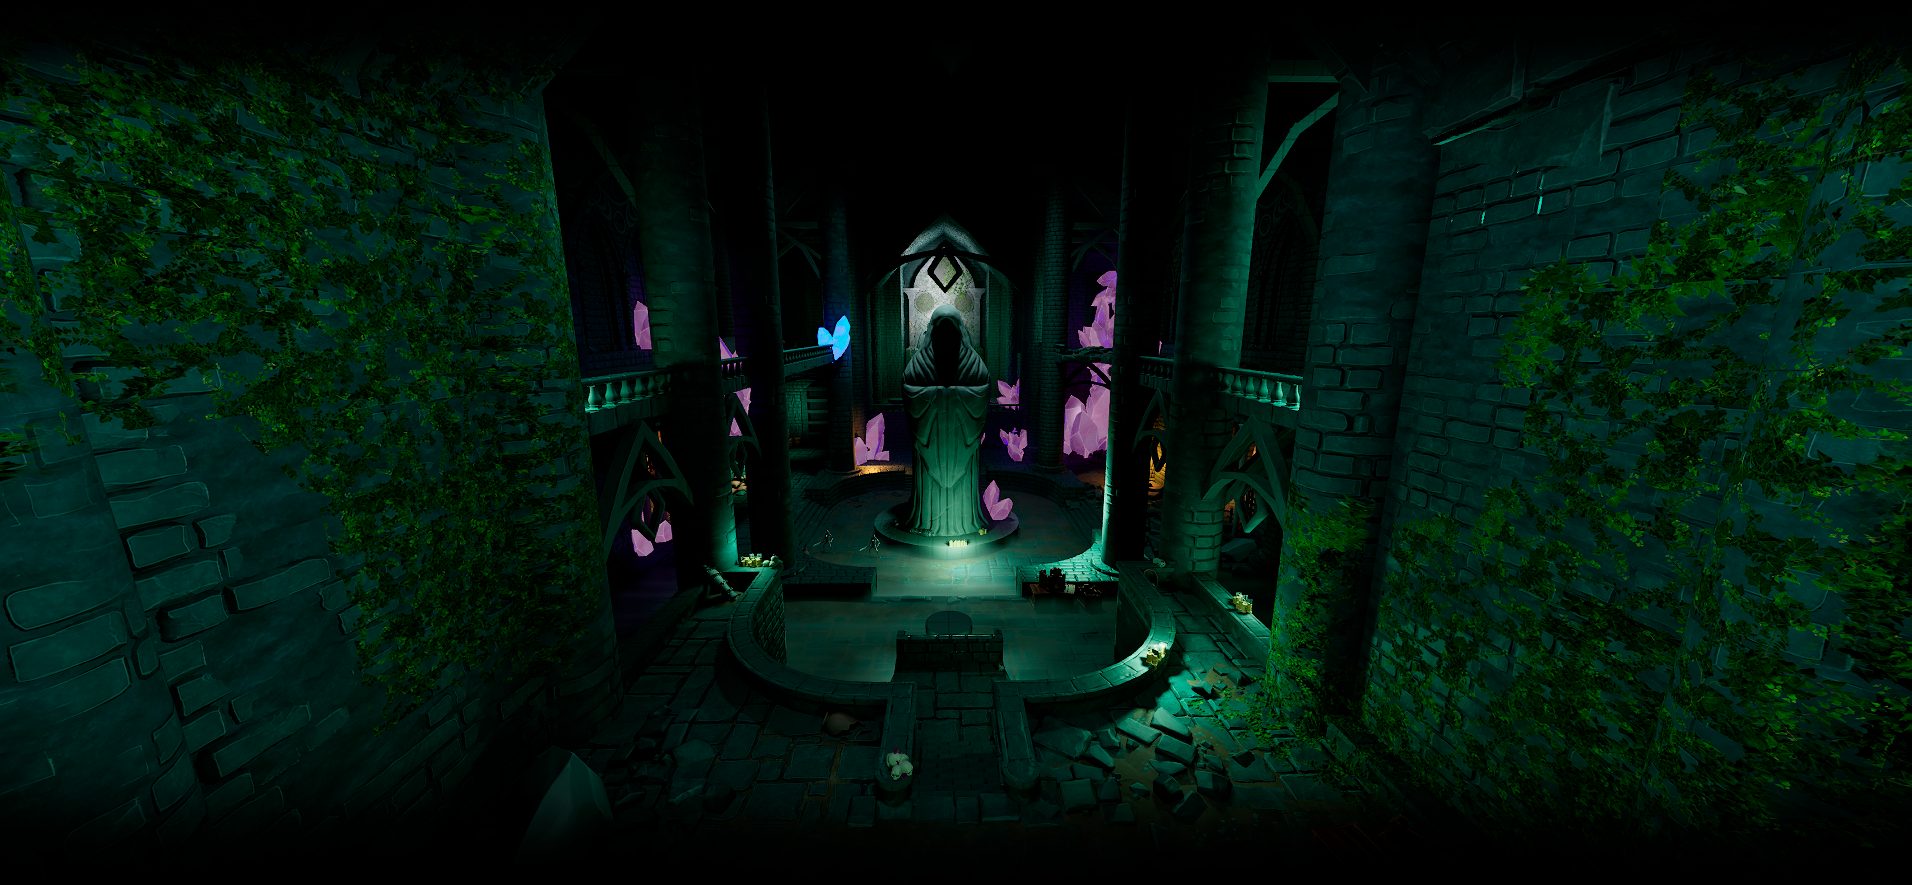
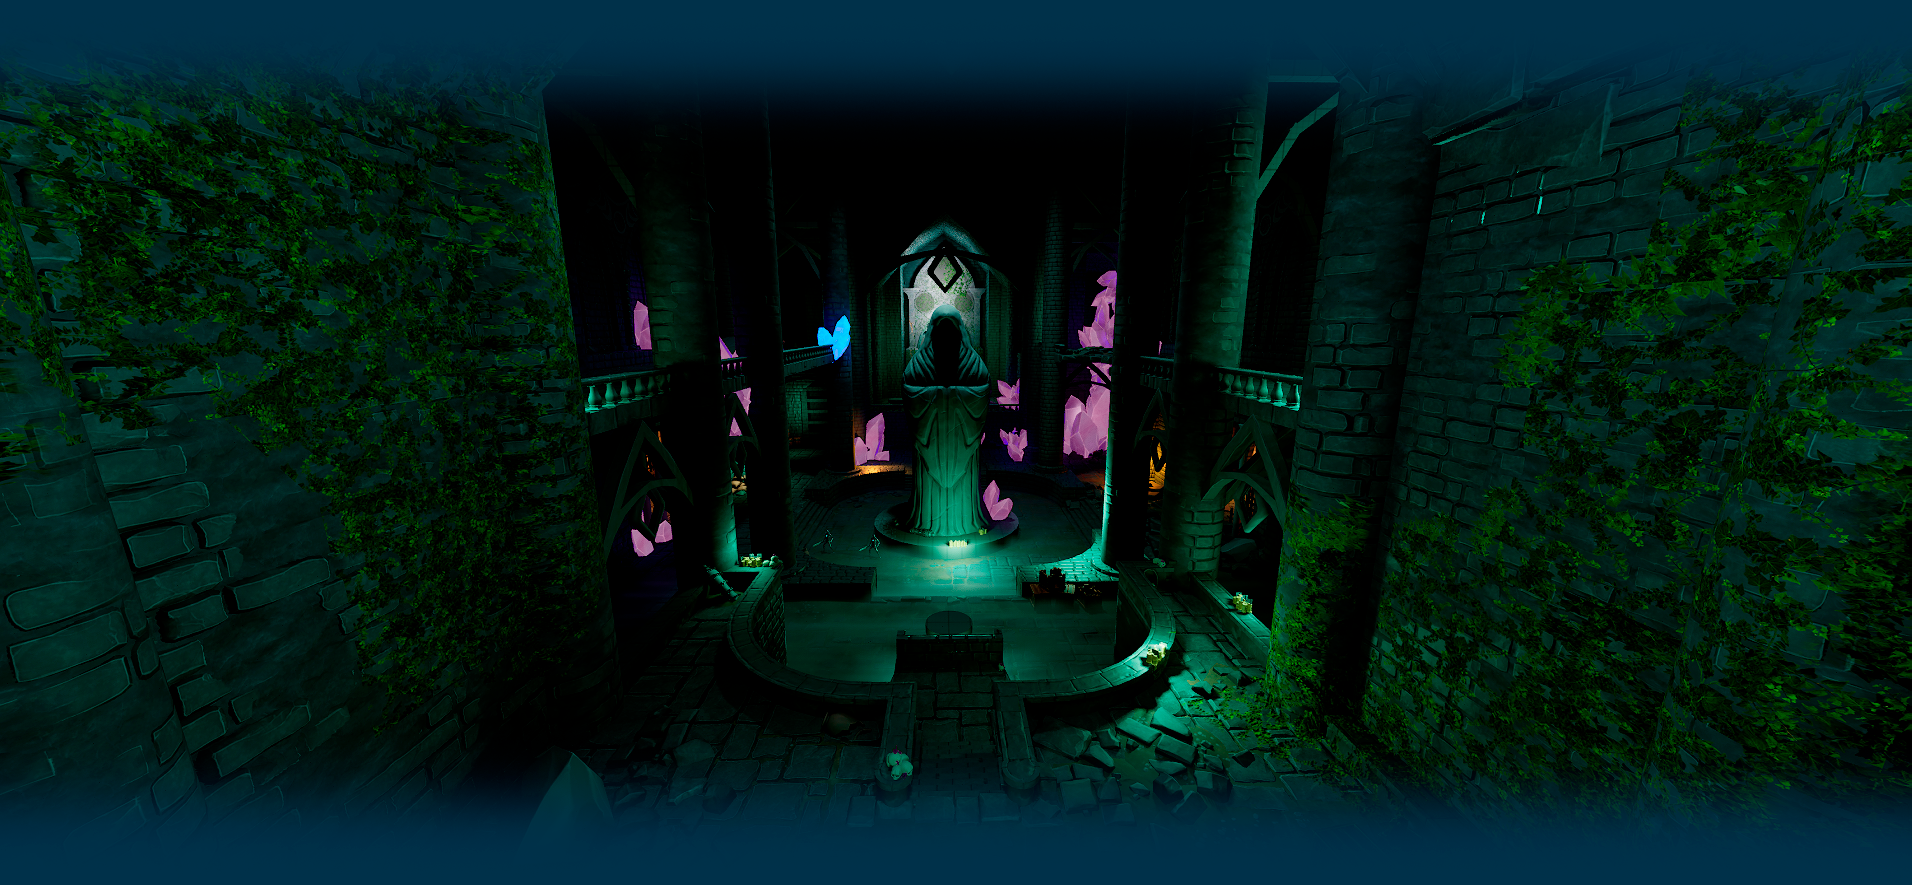
definitivo

diff --git a/src/styles.css b/src/styles.css
@@ -177,30 +177,45 @@ button:hover {
 }
 
 /* ZENITH */
-.background-container {
-  position: relative;
-  display: inline-block; /* Se ajusta al contenido */
+#Zenith{
+  height: 90vh;
+  padding:0px;
+  margin: 0px;
+  background-image: url(../IMG/BackGround.png);
+  background-position: center;
+  display: flex; 
+  align-items: center; 
+  justify-content: center;
+
 }
 
-.background-container img {
-  display: block; /* Elimina el espacio extra debajo de la imagen */
-  width: 100%; /* Hace que la imagen se ajuste al ancho del contenedor */
-  height: auto; /* Mantiene la proporción de la imagen */
-}
-.overlay-content {
-  position: absolute; /* Para superponerlo sobre la imagen */
-  top: 25%; /* Posición en la parte superior */
-  left: 15%; /* Posición a la izquierda */
-  width: 70%; /* Ocupa todo el ancho del contenedor */
-  height: 50%; /* Ocupa toda la altura del contenedor */
-  display: flex; /* Para centrar el contenido */
+.content{
+  font-size: large;
+padding: 0 35px; /* Padding 0 top bot 25px left right */
+  width: 60%;
+  height: 50%;
+  max-height: auto;
+  display: flex; 
   flex-direction: column;
-  align-items: center; /* Centra verticalmente el contenido */
-  justify-content: center; /* Centra horizontalmente el contenido */
-  color: white; /* Cambia el color del texto */
+  align-items: center; 
+  justify-content: center;
   background-color: rgba(0, 52, 75, 0.7);
-  text-align: center; /* Centra el texto */
 }
+
+/* .overlay-content {
+  position: absolute;
+  top: 25%;
+  left: 15%;
+  width: 70%;
+  height: 50%; 
+  display: flex; 
+  flex-direction: column;
+  align-items: center; 
+  justify-content: center;
+  color: white; 
+  background-color: rgba(0, 52, 75, 0.7);
+  text-align: center;
+} */
 
 .overlay-content h1, .overlay-content p {
 padding: 1em 10px 20px 40px ;
@@ -333,6 +348,7 @@ div.teamflex{
 
 }
 @media (max-width: 1440px) {
+ 
   div.teamflex{
     display: grid;
     grid-template-columns: repeat(4,1fr);}
@@ -387,6 +403,13 @@ hyphens: auto;
 @media (max-width: 1024px) {
   .responsive{
     display: none;}
+
+    .flex-container .texto {
+      flex: 0 0 80%; 
+      font-size: 18px;
+    }
+    .content{  font-size:medium;
+    }
 }
 
 
@@ -394,6 +417,20 @@ hyphens: auto;
 @media (max-width: 767px) {
 .responsive{
 display: none;
+}
+#zenith{
+
+}
+
+.content{
+  width: auto;
+  background: linear-gradient(
+    rgba(255, 0, 0, 0),    
+    rgb(0, 52, 75, 0.5) 10%, 
+    hsl(198, 100%, 15%) 50%, 
+    rgb(0, 52, 75,0.5) 90%, 
+    rgba(255, 0, 0, 0)     
+  );
 }
 
   /* Ocultar los links y mostrar el botón de tres barras */
@@ -413,7 +450,6 @@ display: none;
   }
 
   .nav-toggle {
-    display: block;
 
     cursor: pointer;
   }
@@ -441,7 +477,6 @@ ul {
 }
 
 .boton a {
-    display: block;
     width: 100%;
     padding: 15px;
     background-color: #040710;

diff --git a/scripts.js b/scripts.js
@@ -7,15 +7,9 @@ document.getElementById("scroll-to-top").addEventListener("click", function () {
   });
 });
 
+// script.js
 
 
-const navToggle = document.getElementById('nav-toggle');
-const navLinks = document.getElementById('nav-links');
-
-// Añadir evento click para mostrar/ocultar el menú
-navToggle.addEventListener('click', () => {
-    navLinks.classList.toggle('show');
-});
 
 
 //CODIGO EQUIPO

diff --git a/equipo.html b/equipo.html
@@ -12,7 +12,7 @@
   <body class="team">
     <nav>
       <div class="nav-container">
-        <a href="./index.html">
+        <a class="clear" href="./index.html">
           <button class="nav-toggle" id="nav-toggle"  >&#8617</button></a>
           <ul id="nav-links">
               <li class="boton">
